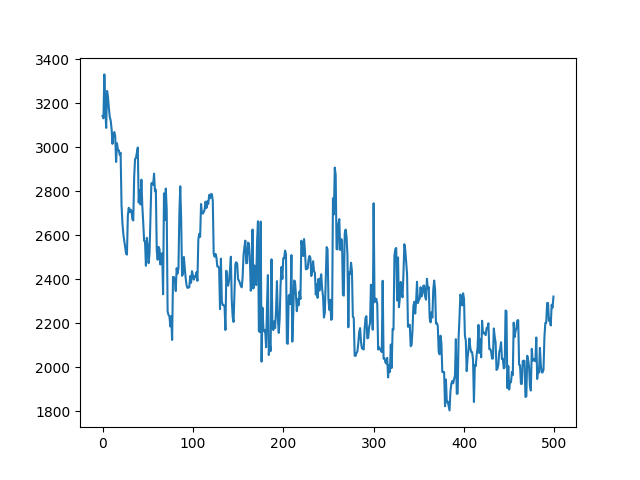
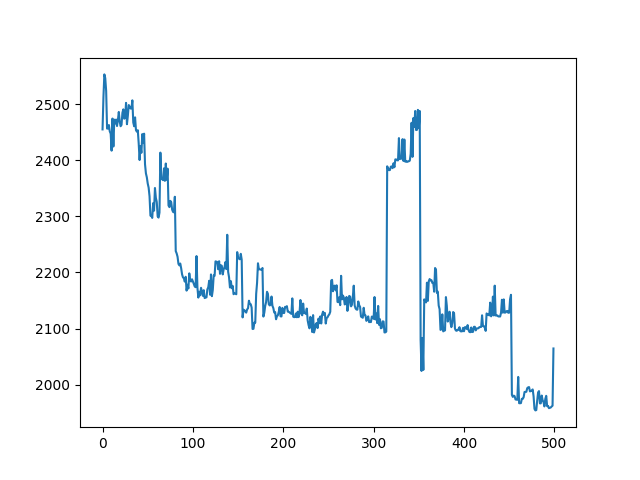
simpler cost function

diff --git a/roadmaps/adamsmap/adamsmap_main.py b/roadmaps/adamsmap/adamsmap_main.py
@@ -26,7 +26,7 @@ if __name__ == "__main__":
     MAX_COST = 100000
 
     # Training
-    ntb = 200  # batch size
+    ntb = 100  # batch size
     nts = 500  # number of batches
 
     # Evaluation
